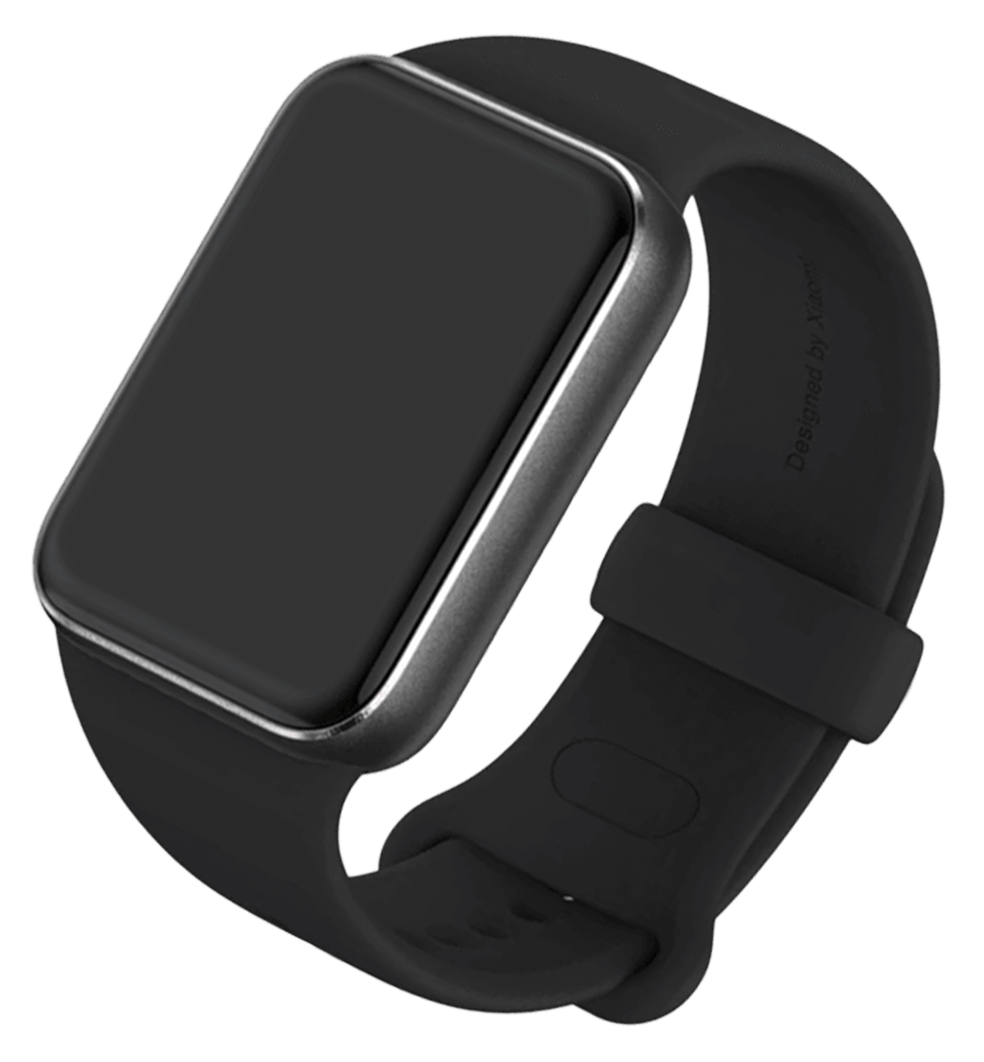
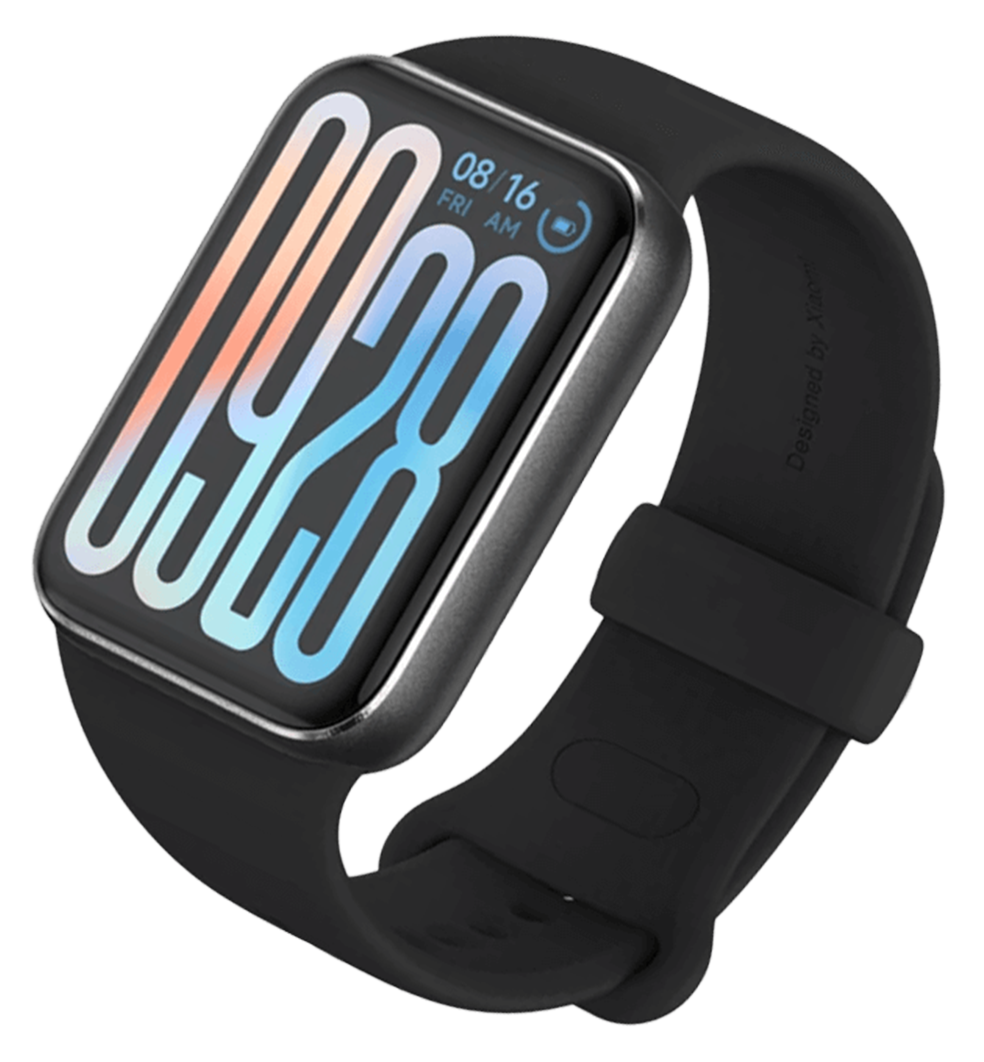
✨ 更新模板一和模板二的高亮渐变及边框半径，调整屏幕角坐标

Changed region(s): [[0.061, 0.0621, 0.6098, 0.6525]]

diff --git a/src/App.vue b/src/App.vue
@@ -62,7 +62,7 @@ const deviceModels: Record<string, DeviceModel> = {
         watchFaceType: "跑道形",
         borderRadius: 96,
         highlightGradient:
-          "linear-gradient(300deg, rgba(255,255,255,0.05) 0%, rgba(255,255,255,0.1) 50%, rgba(255,255,255,0.4) 100%)",
+          "linear-gradient(275deg, rgba(255,255,255,0.05) 0%, rgba(255,255,255,0.1) 50%, rgba(255,255,255,0.4) 100%)",
         screenSource: {
           width: 192,
           height: 490,
@@ -93,7 +93,7 @@ const deviceModels: Record<string, DeviceModel> = {
         watchFaceType: "跑道形",
         borderRadius: 96,
         highlightGradient:
-          "linear-gradient(300deg, rgba(255,255,255,0.05) 0%, rgba(255,255,255,0.1) 50%, rgba(255,255,255,0.4) 100%)",
+          "linear-gradient(260deg, rgba(255,255,255,0.04) 0%, rgba(255,255,255,0.08) 50%, rgba(255,255,255,0.3) 100%)",
         screenSource: {
           width: 192,
           height: 490,
@@ -130,7 +130,7 @@ const deviceModels: Record<string, DeviceModel> = {
         watchFaceType: "跑道形",
         borderRadius: 106,
         highlightGradient:
-          "linear-gradient(300deg, rgba(255,255,255,0.05) 0%, rgba(255,255,255,0.1) 50%, rgba(255,255,255,0.4) 100%)",
+          "linear-gradient(280deg, rgba(255,255,255,0.04) 0%, rgba(255,255,255,0.08) 50%, rgba(255,255,255,0.3) 100%)",
         screenSource: {
           width: 212,
           height: 520,
@@ -161,7 +161,7 @@ const deviceModels: Record<string, DeviceModel> = {
         watchFaceType: "跑道形",
         borderRadius: 106,
         highlightGradient:
-          "linear-gradient(300deg, rgba(255,255,255,0.05) 0%, rgba(255,255,255,0.1) 50%, rgba(255,255,255,0.4) 100%)",
+          "linear-gradient(290deg, rgba(255,255,255,0.05) 0%, rgba(255,255,255,0.1) 50%, rgba(255,255,255,0.4) 100%)",
         screenSource: {
           width: 212,
           height: 520,
@@ -229,7 +229,7 @@ const deviceModels: Record<string, DeviceModel> = {
         watchFaceType: "跑道形",
         borderRadius: 106,
         highlightGradient:
-          "linear-gradient(300deg, rgba(255,255,255,0.05) 0%, rgba(255,255,255,0.1) 50%, rgba(255,255,255,0.4) 100%)",
+          "linear-gradient(290deg, rgba(255,255,255,0.04) 0%, rgba(255,255,255,0.08) 50%, rgba(255,255,255,0.3) 100%)",
         screenSource: {
           width: 212,
           height: 520,
@@ -264,29 +264,29 @@ const deviceModels: Record<string, DeviceModel> = {
         name: "模板一",
         imagePath: "/proto/9p-1.png",
         watchFaceType: "方形",
-        borderRadius: [48, 38, 48, 38],
+        borderRadius: [48, 44, 44, 47],
         highlightGradient:
-          "linear-gradient(325deg, rgba(255,255,255,0.05) 0%, rgba(255,255,255,0.1) 50%, rgba(255,255,255,0.4) 100%)",
+          "linear-gradient(270deg, rgba(255,255,255,0.06) 0%, rgba(255,255,255,0.16) 50%, rgba(255,255,255,0.22) 100%)",
         screenSource: {
           width: 336,
           height: 480,
         },
         screenCorners: [
           {
-            x: 319,
-            y: 78,
+            x: 323,
+            y: 68,
           },
           {
-            x: 608,
-            y: 212,
+            x: 612,
+            y: 199,
           },
           {
-            x: 324,
-            y: 696,
+            x: 321,
+            y: 707,
           },
           {
-            x: 48,
-            y: 550,
+            x: 39,
+            y: 563,
           },
         ],
       },
@@ -295,29 +295,29 @@ const deviceModels: Record<string, DeviceModel> = {
         name: "模板二",
         imagePath: "/proto/9p-2.png",
         watchFaceType: "方形",
-        borderRadius: [48, 38, 44, 48],
+        borderRadius: 48,
         highlightGradient:
-          "linear-gradient(325deg, rgba(255,255,255,0.05) 0%, rgba(255,255,255,0.1) 50%, rgba(255,255,255,0.4) 100%)",
+          "linear-gradient(340deg, rgba(255,255,255,0.03) 0%, rgba(255,255,255,0.06) 50%, rgba(255,255,255,0.2) 100%)",
         screenSource: {
           width: 336,
           height: 480,
         },
         screenCorners: [
           {
-            x: 84,
-            y: 366,
+            x: 82,
+            y: 362,
           },
           {
-            x: 410,
-            y: 285,
+            x: 417,
+            y: 281,
           },
           {
-            x: 407,
-            y: 914,
+            x: 413,
+            y: 917,
           },
           {
-            x: 68,
-            y: 964,
+            x: 67,
+            y: 966,
           },
         ],
       },
@@ -334,7 +334,7 @@ const deviceModels: Record<string, DeviceModel> = {
         watchFaceType: "方形",
         borderRadius: [54, 44, 44, 48],
         highlightGradient:
-          "linear-gradient(325deg, rgba(255,255,255,0.05) 0%, rgba(255,255,255,0.1) 50%, rgba(255,255,255,0.4) 100%)",
+          "linear-gradient(305deg, rgba(255,255,255,0.04) 0%, rgba(255,255,255,0.08) 50%, rgba(255,255,255,0.3) 100%)",
         screenSource: {
           width: 336,
           height: 480,
@@ -365,7 +365,7 @@ const deviceModels: Record<string, DeviceModel> = {
         watchFaceType: "方形",
         borderRadius: [54, 44, 44, 48],
         highlightGradient:
-          "linear-gradient(325deg, rgba(255,255,255,0.05) 0%, rgba(255,255,255,0.1) 50%, rgba(255,255,255,0.4) 100%)",
+          "linear-gradient(305deg, rgba(255,255,255,0.04) 0%, rgba(255,255,255,0.08) 50%, rgba(255,255,255,0.3) 100%)",
         screenSource: {
           width: 336,
           height: 480,
@@ -402,7 +402,7 @@ const deviceModels: Record<string, DeviceModel> = {
         watchFaceType: "方形",
         borderRadius: [95, 103, 103, 103],
         highlightGradient:
-          "linear-gradient(280deg, rgba(255,255,255,0.05) 0%, rgba(255,255,255,0.1) 50%, rgba(255,255,255,0.2) 100%)",
+          "linear-gradient(335deg, rgba(255,255,255,0.03) 0%, rgba(255,255,255,0.06) 50%, rgba(255,255,255,0.2) 100%)",
         screenSource: {
           width: 432,
           height: 514,
@@ -433,7 +433,7 @@ const deviceModels: Record<string, DeviceModel> = {
         watchFaceType: "方形",
         borderRadius: [93, 103, 103, 103],
         highlightGradient:
-          "linear-gradient(280deg, rgba(255,255,255,0.05) 0%, rgba(255,255,255,0.1) 50%, rgba(255,255,255,0.2) 100%)",
+          "linear-gradient(290deg, rgba(255,255,255,0.04) 0%, rgba(255,255,255,0.08) 50%, rgba(255,255,255,0.3) 100%)",
         screenSource: {
           width: 432,
           height: 514,
@@ -470,7 +470,7 @@ const deviceModels: Record<string, DeviceModel> = {
         watchFaceType: "圆形",
         borderRadius: 240,
         highlightGradient:
-          "linear-gradient(280deg, rgba(255,255,255,0.05) 0%, rgba(255,255,255,0.1) 50%, rgba(255,255,255,0.4) 100%)",
+          "linear-gradient(10deg, rgba(255,255,255,0.03) 0%, rgba(255,255,255,0.06) 50%, rgba(255,255,255,0.2) 100%)",
         screenSource: {
           width: 480,
           height: 480,
@@ -501,7 +501,7 @@ const deviceModels: Record<string, DeviceModel> = {
         watchFaceType: "圆形",
         borderRadius: 240,
         highlightGradient:
-          "linear-gradient(35deg, rgba(255,255,255,0.05) 0%, rgba(255,255,255,0.1) 50%, rgba(255,255,255,0.4) 100%)",
+          "linear-gradient(295deg, rgba(255,255,255,0.05) 0%, rgba(255,255,255,0.1) 50%, rgba(255,255,255,0.4) 100%)",
         screenSource: {
           width: 480,
           height: 480,
@@ -538,7 +538,7 @@ const deviceModels: Record<string, DeviceModel> = {
         watchFaceType: "圆形",
         borderRadius: 240,
         highlightGradient:
-          "linear-gradient(280deg, rgba(255,255,255,0.05) 0%, rgba(255,255,255,0.1) 50%, rgba(255,255,255,0.4) 100%)",
+          "linear-gradient(305deg, rgba(255,255,255,0.05) 0%, rgba(255,255,255,0.1) 50%, rgba(255,255,255,0.4) 100%)",
         screenSource: {
           width: 480,
           height: 480,
@@ -569,7 +569,7 @@ const deviceModels: Record<string, DeviceModel> = {
         watchFaceType: "圆形",
         borderRadius: 240,
         highlightGradient:
-          "linear-gradient(280deg, rgba(255,255,255,0.05) 0%, rgba(255,255,255,0.1) 50%, rgba(255,255,255,0.4) 100%)",
+          "linear-gradient(305deg, rgba(255,255,255,0.05) 0%, rgba(255,255,255,0.1) 50%, rgba(255,255,255,0.4) 100%)",
         screenSource: {
           width: 480,
           height: 480,
